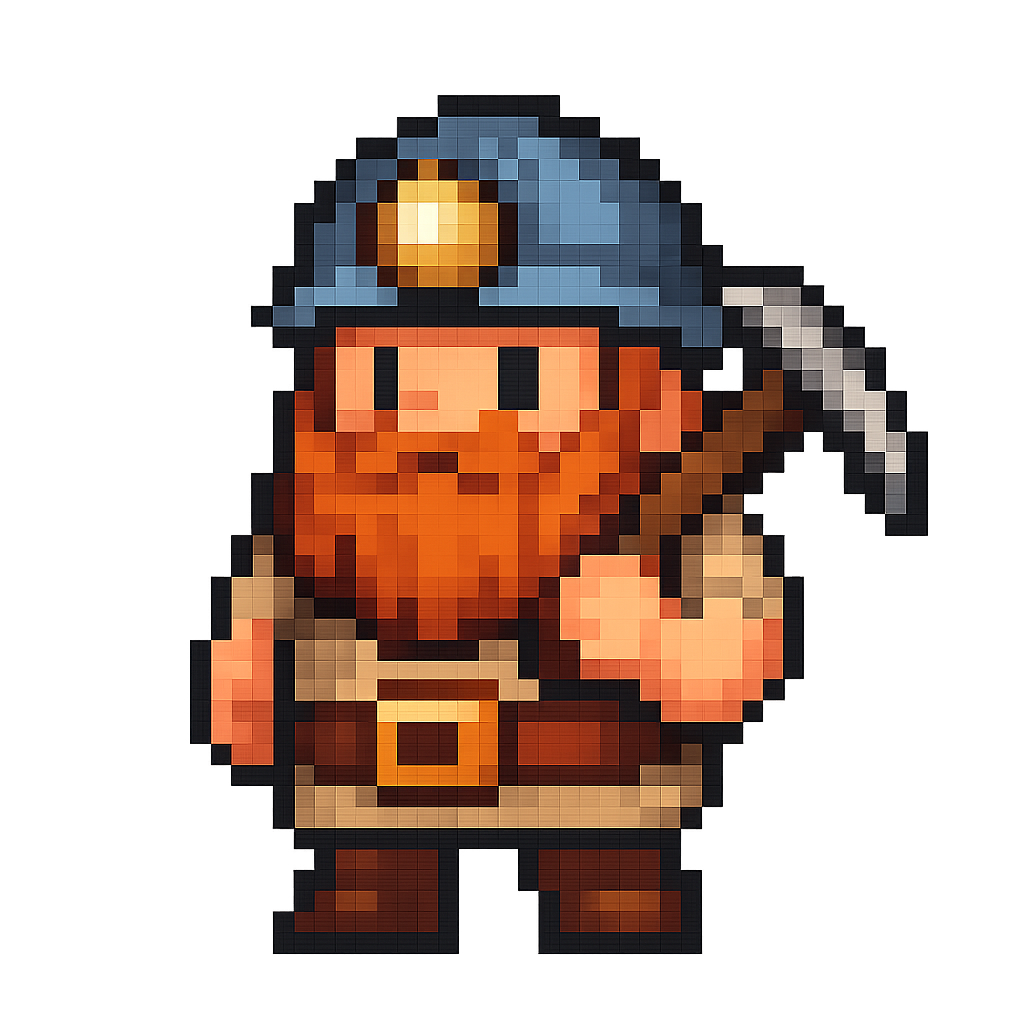
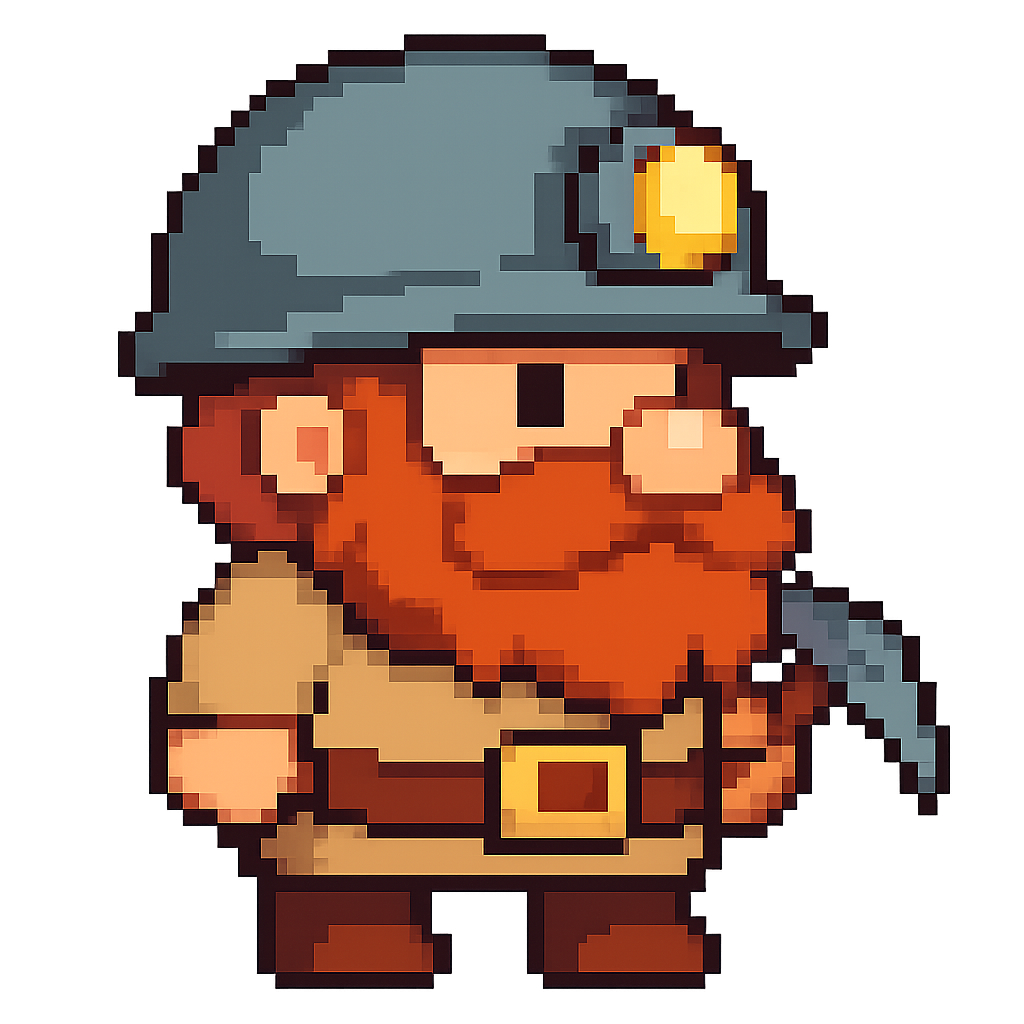
feat: simplify GachaGame component styles; update dwarf miner images

diff --git a/components/gacha-game.tsx b/components/gacha-game.tsx
@@ -157,9 +157,7 @@ export function GachaGame() {
                 width={148}
                 height={148}
                 priority
-                className={`pixelated h-[148px] w-[148px] object-contain object-bottom drop-shadow-[0_6px_0_rgba(0,0,0,0.5)] ${
-                  frame === "idle" ? "scale-x-[-1]" : ""
-                }`}
+                className="pixelated h-[148px] w-[148px] object-contain object-bottom drop-shadow-[0_6px_0_rgba(0,0,0,0.5)]"
               />
             </span>
           </button>
